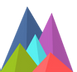
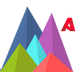
Add support for Nubix Image OCI artifact

Changed region(s): [[0.7792, 0.2222, 0.987, 0.4444]]

diff --git a/src/lib/icon/const.go b/src/lib/icon/const.go
@@ -2,9 +2,10 @@ package icon
 
 // const definitions
 const (
-	DigestOfIconImage    = "sha256:0048162a053eef4d4ce3fe7518615bef084403614f8bca43b40ae2e762e11e06"
-	DigestOfIconChart    = "sha256:61cf3a178ff0f75bf08a25d96b75cf7355dc197749a9f128ed3ef34b0df05518"
-	DigestOfIconCNAB     = "sha256:089bdda265c14d8686111402c8ad629e8177a1ceb7dcd0f7f39b6480f623b3bd"
-	DigestOfIconNubixApp = "sha256:65b344062e682cef013cc7062e3687e7c62c1c456078e70b3cf96bce94d77bc0"
-	DigestOfIconDefault  = "sha256:da834479c923584f4cbcdecc0dac61f32bef1d51e8aae598cf16bd154efab49f"
+	DigestOfIconImage      = "sha256:0048162a053eef4d4ce3fe7518615bef084403614f8bca43b40ae2e762e11e06"
+	DigestOfIconChart      = "sha256:61cf3a178ff0f75bf08a25d96b75cf7355dc197749a9f128ed3ef34b0df05518"
+	DigestOfIconCNAB       = "sha256:089bdda265c14d8686111402c8ad629e8177a1ceb7dcd0f7f39b6480f623b3bd"
+	DigestOfIconNubixApp   = "sha256:e2c75911a35f35839c167609c583e058e819e647747e805af490d8e814d798d4"
+	DigestOfIconNubixImage = "sha256:21cf5a3f4e52ae82e76688a1830f31e1cd9ee1e6c607c6caad925966e28a8e9c"
+	DigestOfIconDefault    = "sha256:da834479c923584f4cbcdecc0dac61f32bef1d51e8aae598cf16bd154efab49f"
 )

diff --git a/src/controller/artifact/controller.go b/src/controller/artifact/controller.go
@@ -26,6 +26,8 @@ import (
 	"github.com/goharbor/harbor/src/controller/artifact/processor/cnab"
 	"github.com/goharbor/harbor/src/controller/artifact/processor/image"
 	"github.com/goharbor/harbor/src/controller/artifact/processor/nubixapp"
+	"github.com/goharbor/harbor/src/controller/artifact/processor/nubiximage"
+
 	"github.com/goharbor/harbor/src/lib/icon"
 
 	"github.com/goharbor/harbor/src/controller/artifact/processor"
@@ -66,10 +68,11 @@ var (
 
 	// icon digests for each known type
 	defaultIcons = map[string]string{
-		image.ArtifactTypeImage:       icon.DigestOfIconImage,
-		chart.ArtifactTypeChart:       icon.DigestOfIconChart,
-		cnab.ArtifactTypeCNAB:         icon.DigestOfIconCNAB,
-		nubixapp.ArtifactTypeNubixApp: icon.DigestOfIconNubixApp,
+		image.ArtifactTypeImage:           icon.DigestOfIconImage,
+		chart.ArtifactTypeChart:           icon.DigestOfIconChart,
+		cnab.ArtifactTypeCNAB:             icon.DigestOfIconCNAB,
+		nubixapp.ArtifactTypeNubixApp:     icon.DigestOfIconNubixApp,
+		nubiximage.ArtifactTypeNubixImage: icon.DigestOfIconNubixImage,
 	}
 )
 

diff --git a/src/controller/artifact/processor/nubiximage/nubix_image.go b/src/controller/artifact/processor/nubiximage/nubix_image.go
@@ -12,7 +12,7 @@
 // See the License for the specific language governing permissions and
 // limitations under the License.
 
-package nubixapp
+package nubiximage
 
 import (
 	"context"
@@ -25,8 +25,8 @@ import (
 
 // const definitions
 const (
-	ArtifactTypeNubixApp = "NUBIX_APP"
-	mediaType            = "application/vnd.nubix.app.config.v1+json"
+	ArtifactTypeNubixImage = "NUBIX_IMAGE"
+	mediaType              = "application/vnd.nubix.image.config.v1+json"
 )
 
 func init() {
@@ -57,7 +57,7 @@ func (p *processor) AbstractAddition(ctx context.Context, artifact *artifact.Art
 }
 
 func (p *processor) GetArtifactType(ctx context.Context, artifact *artifact.Artifact) string {
-	return ArtifactTypeNubixApp
+	return ArtifactTypeNubixImage
 }
 
 func (p *processor) ListAdditionTypes(ctx context.Context, artifact *artifact.Artifact) []string {

diff --git a/src/controller/icon/controller.go b/src/controller/icon/controller.go
@@ -39,11 +39,12 @@ import (
 
 var (
 	builtInIcons = map[string]string{
-		icon.DigestOfIconImage:    "./icons/image.png",
-		icon.DigestOfIconChart:    "./icons/chart.png",
-		icon.DigestOfIconCNAB:     "./icons/cnab.png",
-		icon.DigestOfIconNubixApp: "./icons/nubix_app.png",
-		icon.DigestOfIconDefault:  "./icons/default.png",
+		icon.DigestOfIconImage:      "./icons/image.png",
+		icon.DigestOfIconChart:      "./icons/chart.png",
+		icon.DigestOfIconCNAB:       "./icons/cnab.png",
+		icon.DigestOfIconNubixApp:   "./icons/nubix_app.png",
+		icon.DigestOfIconNubixImage: "./icons/nubix_image.png",
+		icon.DigestOfIconDefault:    "./icons/default.png",
 	}
 	// Ctl is a global icon controller instance
 	Ctl = NewController()
